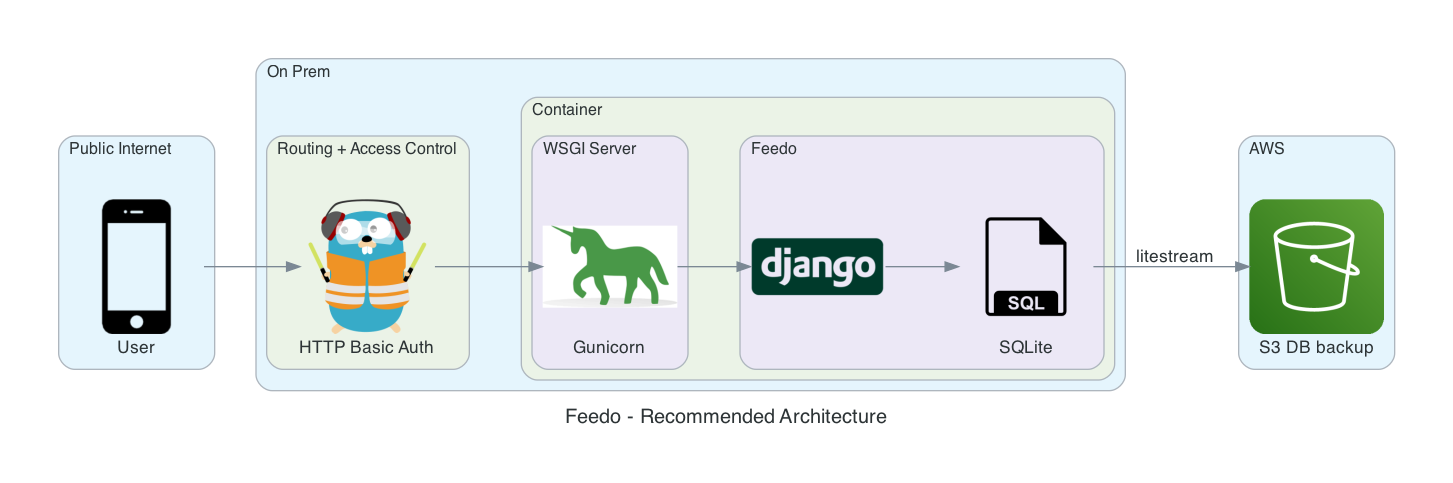
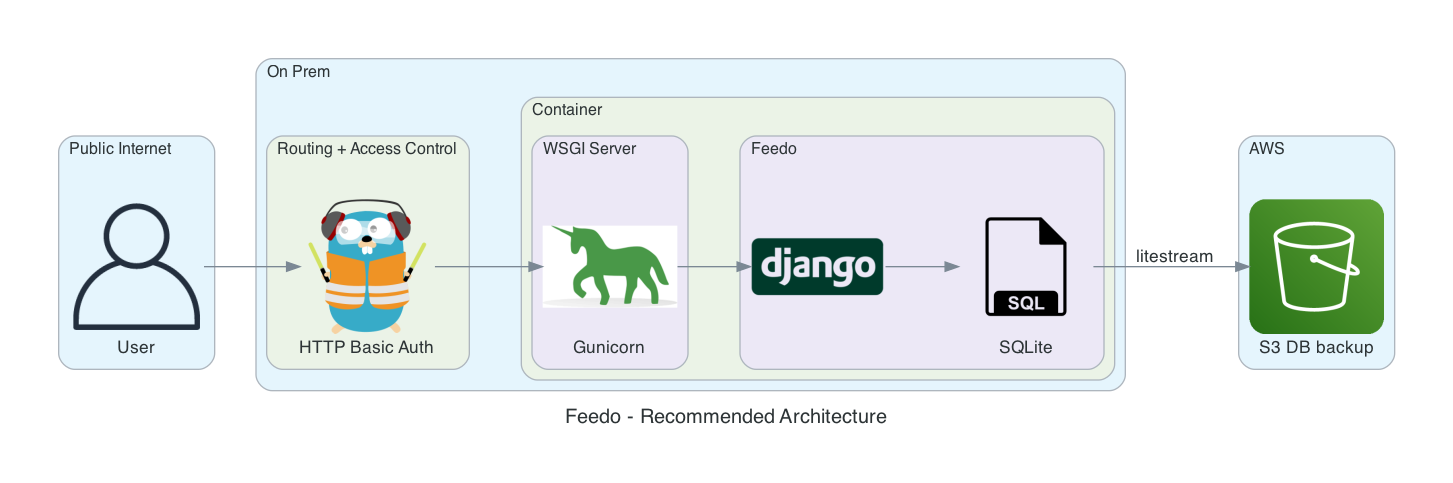
Update diagram

Changed region(s): [[0.031, 0.4037, 0.1549, 0.7143]]

diff --git a/docs/diagram.py b/docs/diagram.py
@@ -4,7 +4,7 @@ from diagrams.programming.framework import Django
 from diagrams.aws.storage import S3
 from diagrams.onprem.network import Traefik, Gunicorn, Caddy
 from diagrams.generic.database import SQL
-from diagrams.generic.device import Mobile
+from diagrams.onprem.client import User
 
 # https://www.graphviz.org/doc/info/attrs.html
 graph_attr = {
@@ -14,7 +14,7 @@ graph_attr = {
 # https://diagrams.mingrammer.com/docs/getting-started/installation
 with Diagram("Feedo - Recommended Architecture", filename="docs/feedo-architecture", graph_attr=graph_attr):
     with Cluster("Public Internet"):
-        user = Mobile("User")
+        user = User("User")
 
     with Cluster("On Prem"):
         with Cluster("Routing + Access Control"):
@@ -35,7 +35,7 @@ with Diagram("Feedo - Recommended Architecture", filename="docs/feedo-architectu
 
 with Diagram("Feedo - Simple Architecture", filename="docs/feedo-architecture-simple", graph_attr=graph_attr):
     with Cluster("Public Internet"):
-        user = Mobile("User")
+        user = User("User")
 
     with Cluster("On Prem"):
         with Cluster("Routing + Access Control"):
